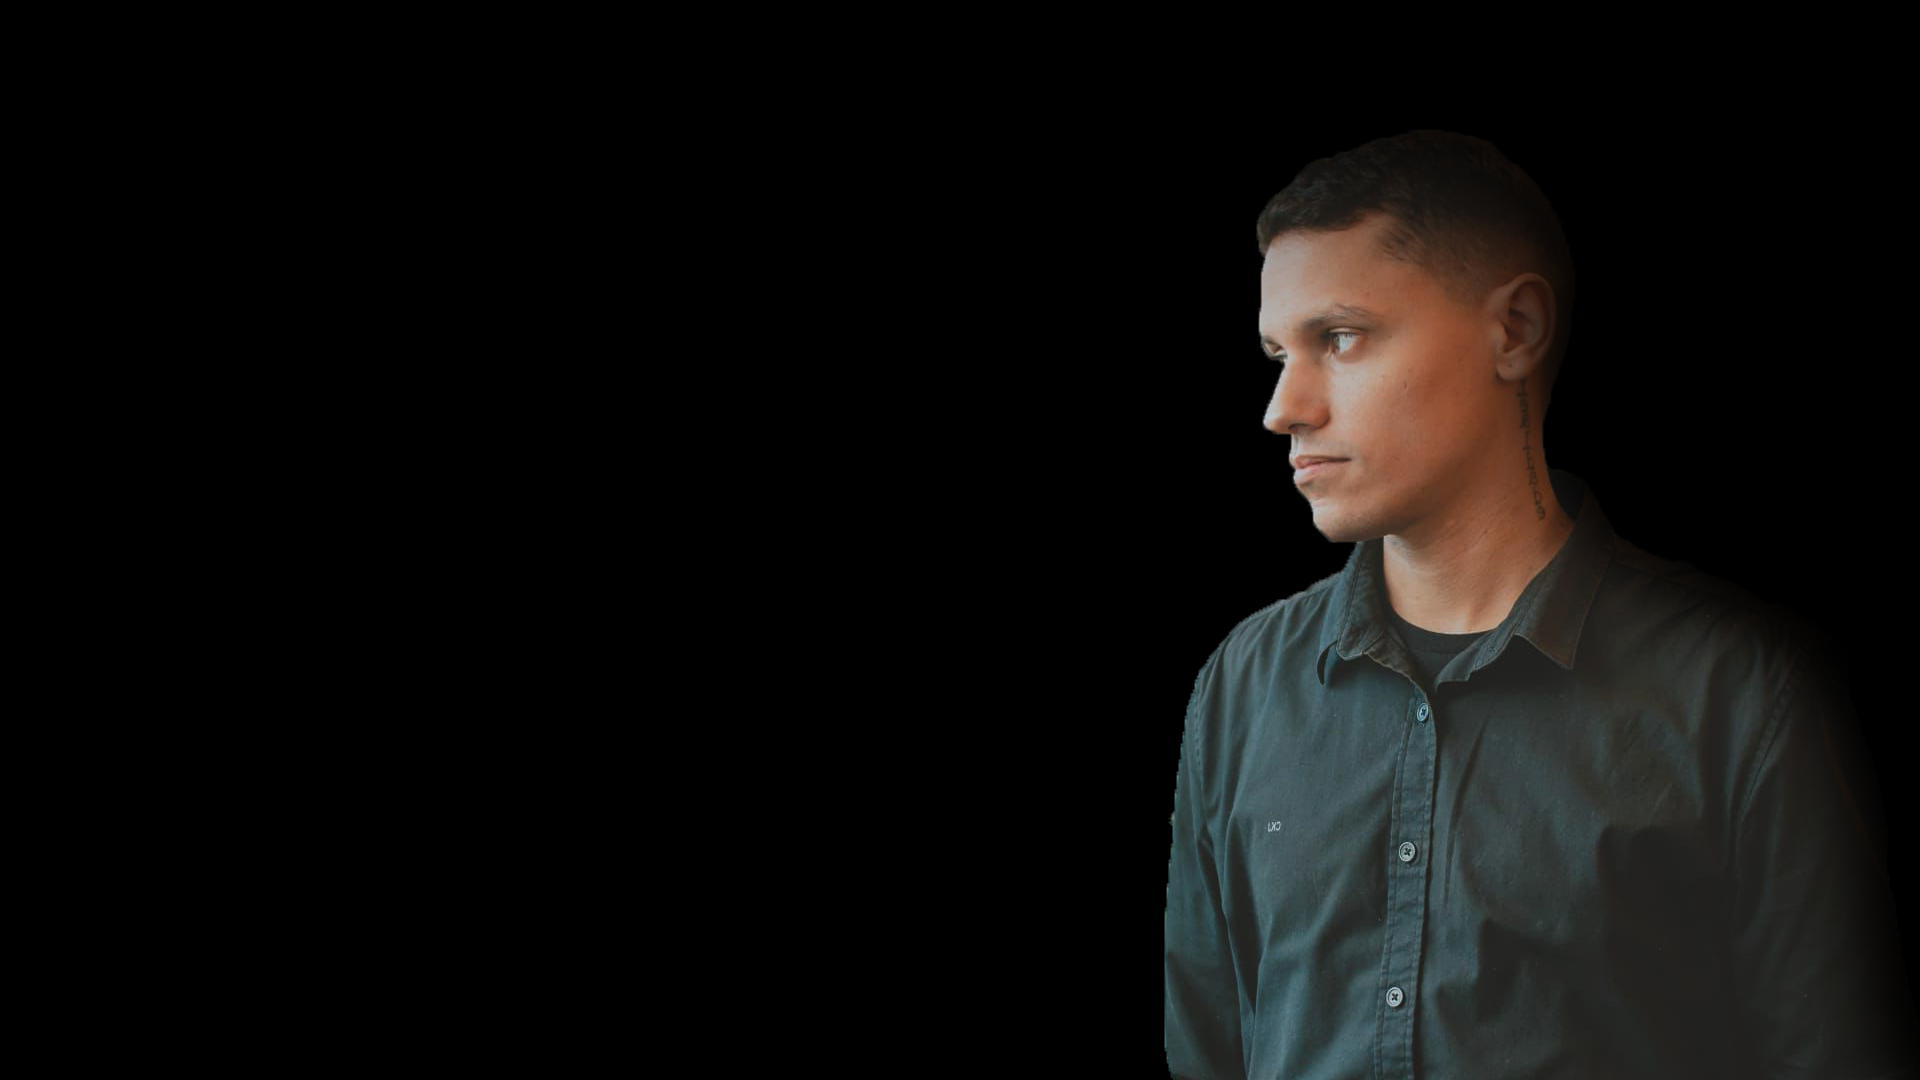
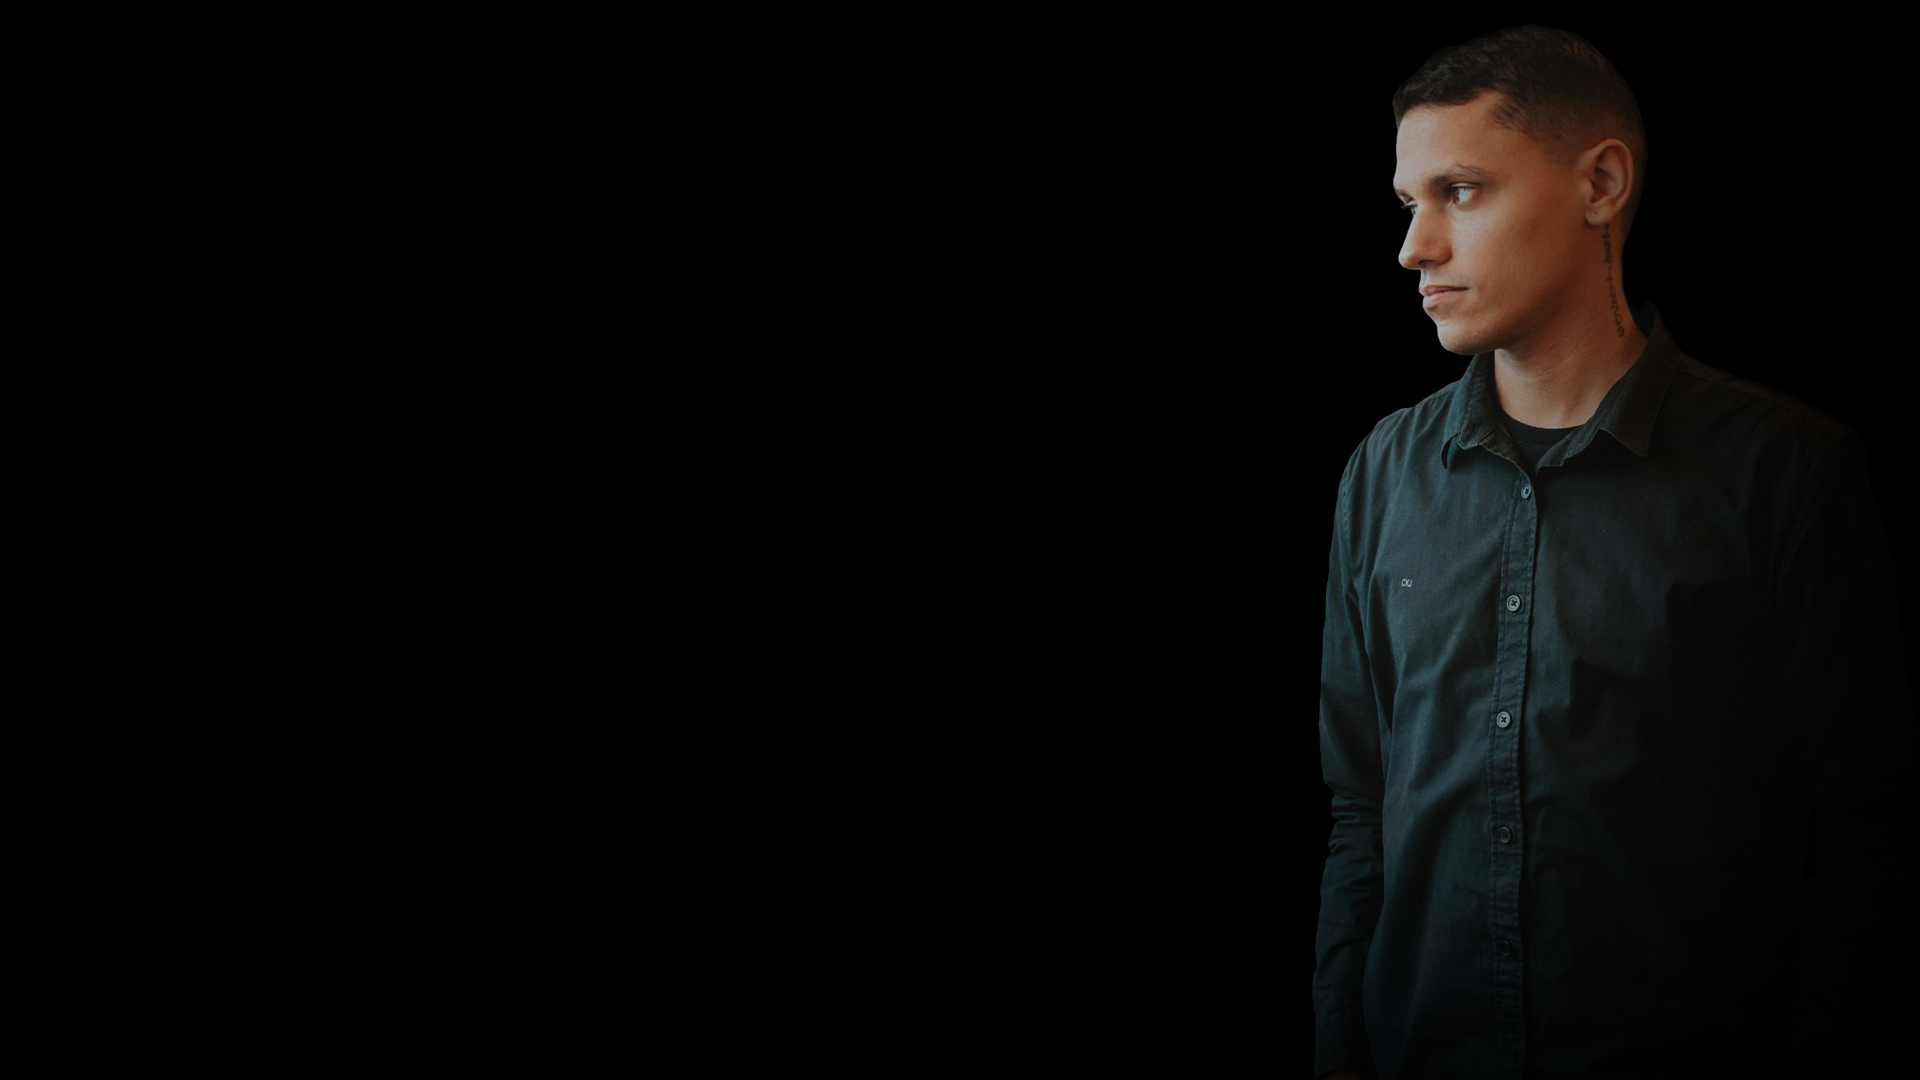
att

Changed region(s): [[0.5938, 0.0306, 0.9688, 1.0]]

diff --git a/style.css b/style.css
@@ -372,7 +372,7 @@ nav .fas{
 
 @media only screen and (max-width: 600px){
     #header{
-        background-image: url(images/phone-background.png);
+        background-image: url(images/background2.png);
     }
     .header-text{
         margin-top: 100%;
